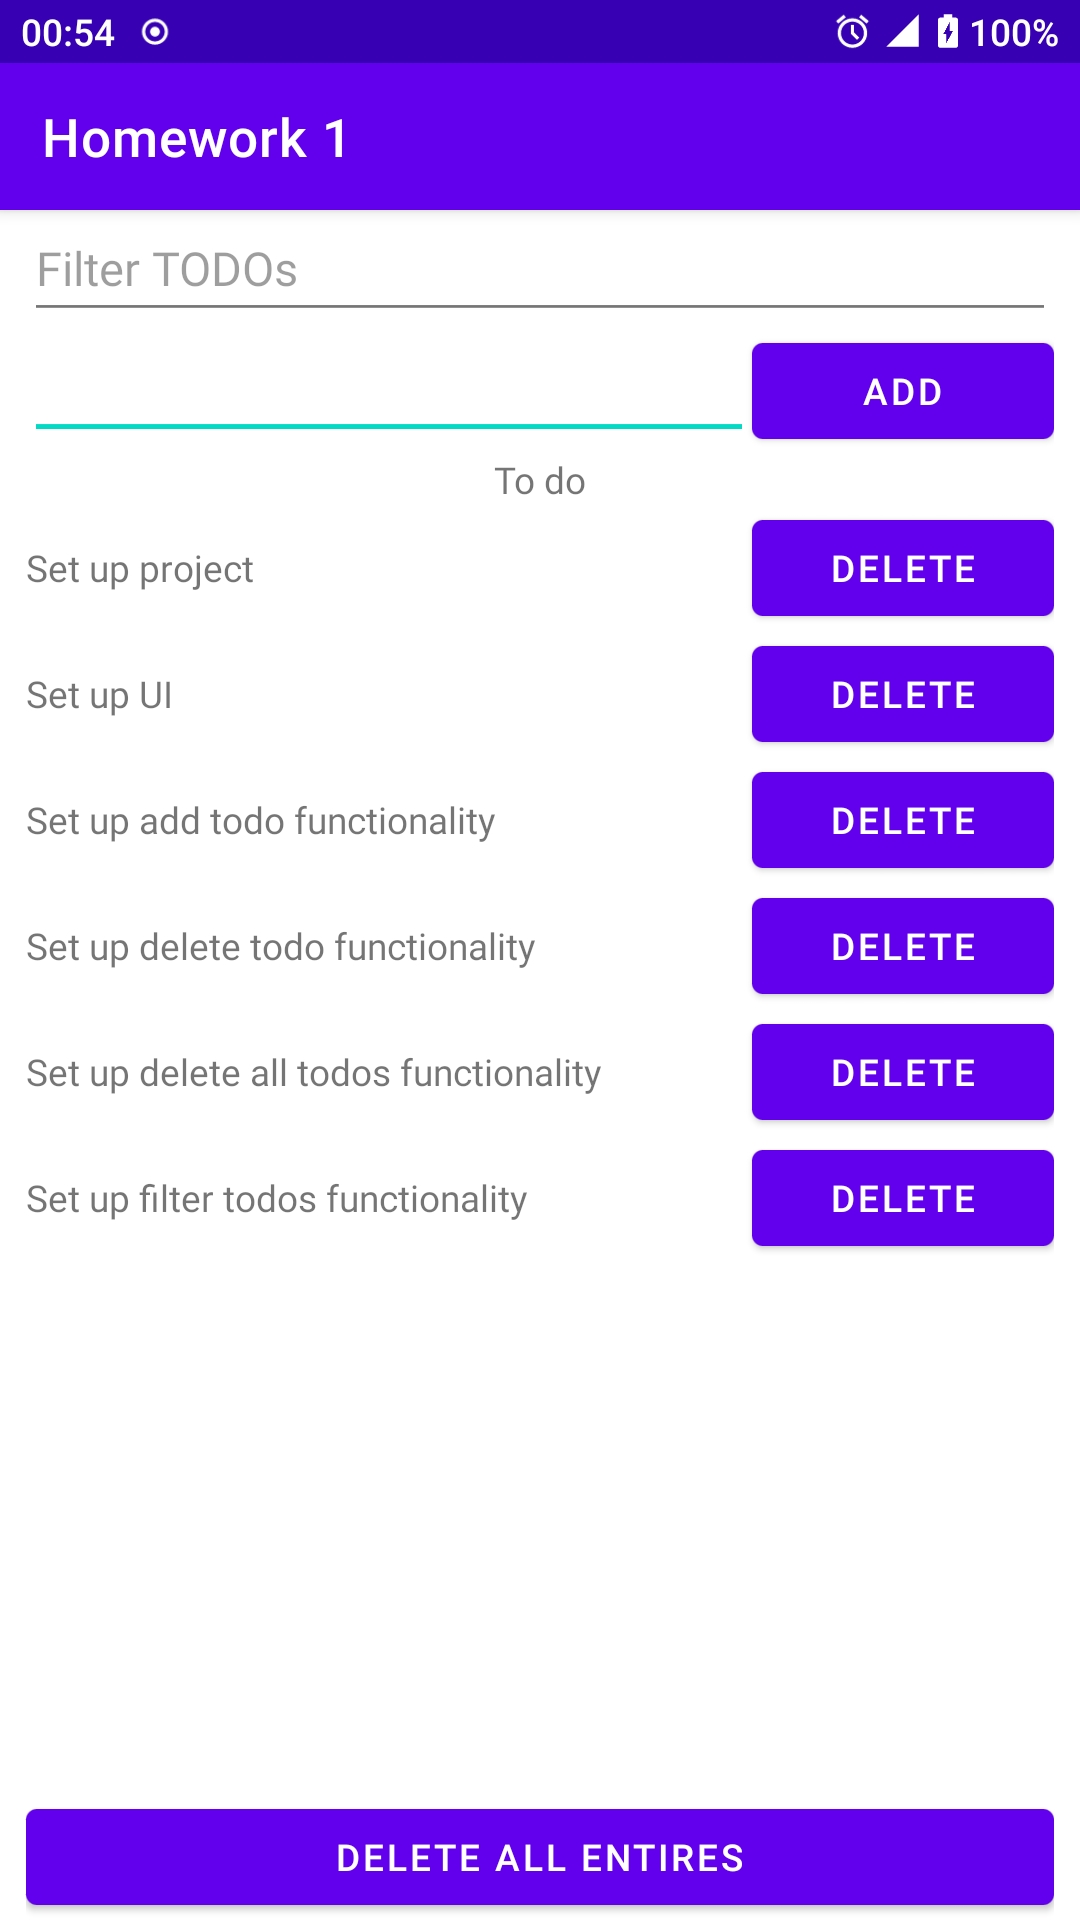
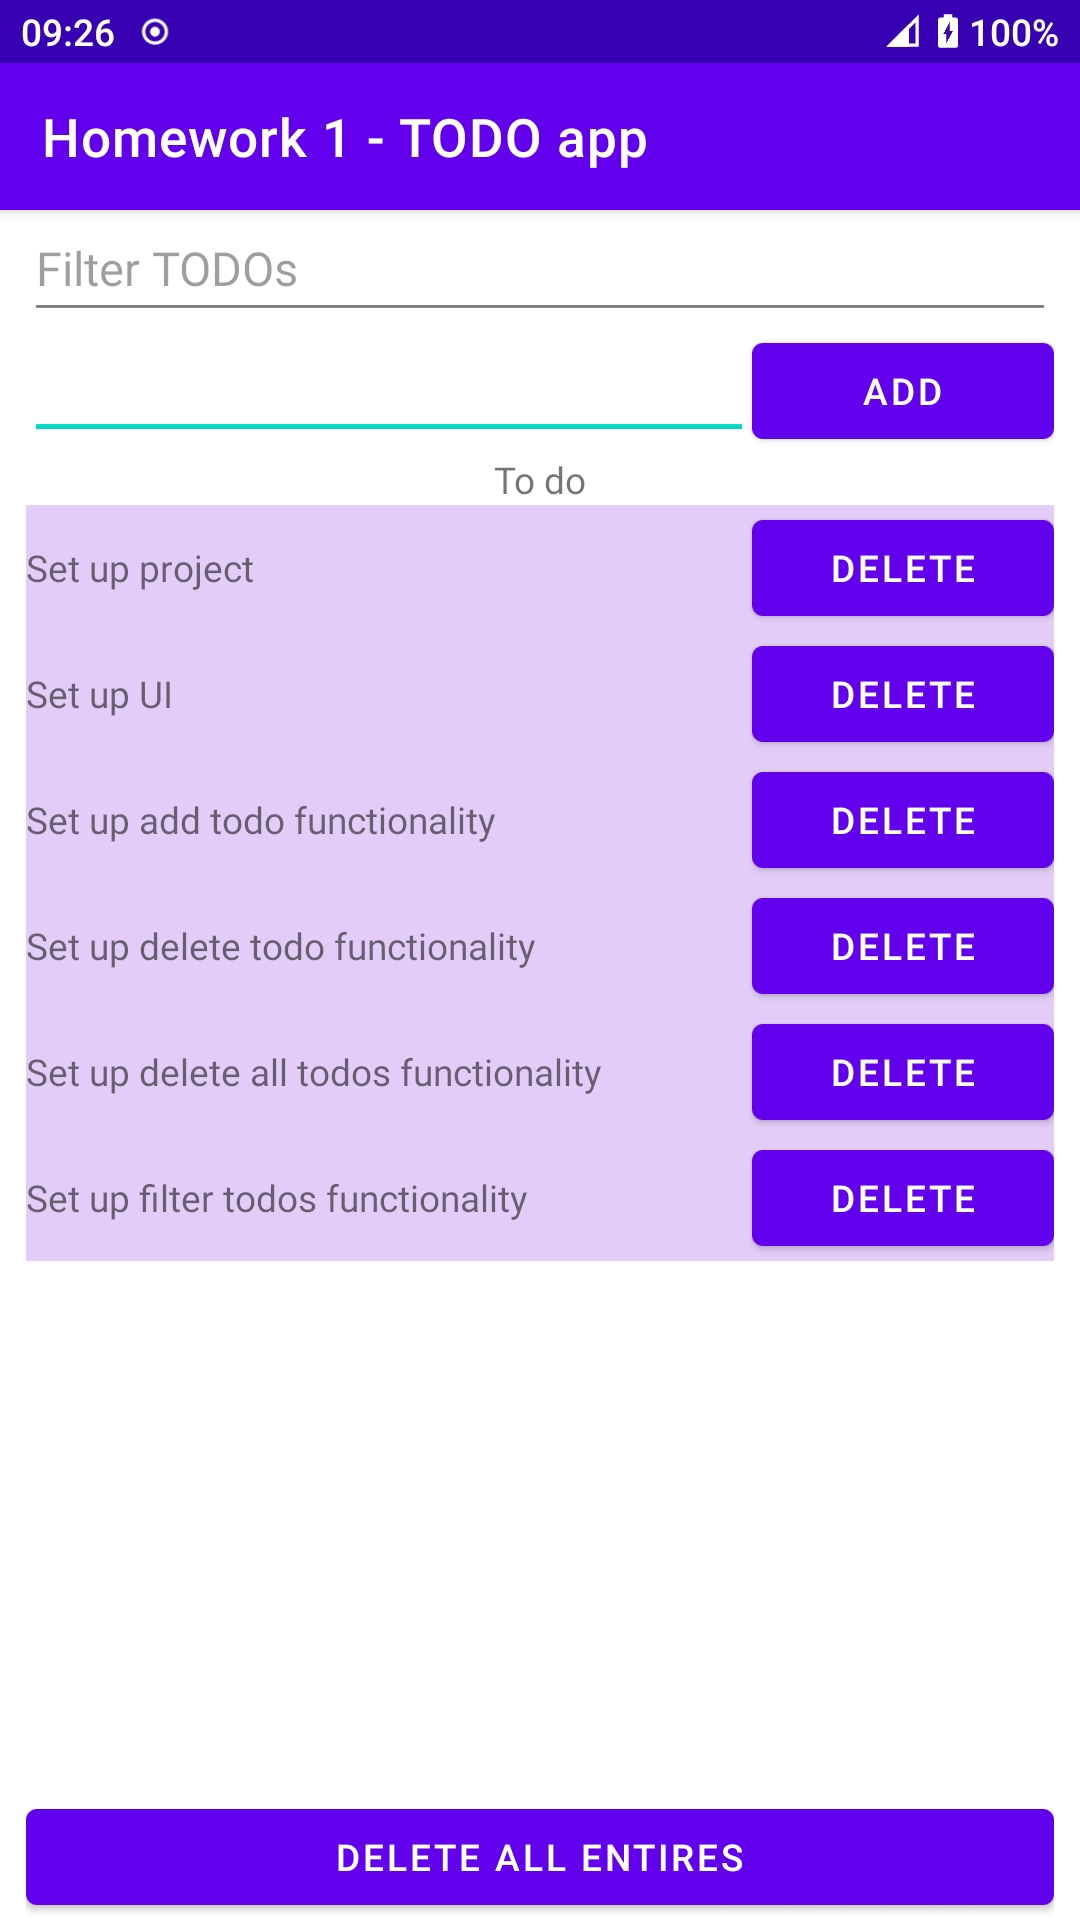
[hm1] Improve UI
* Change title of the activity

* Change background of the scrollView

* Update documentation

diff --git a/app/src/main/java/com/matevskial/pmphomeworks/Homework1.kt b/app/src/main/java/com/matevskial/pmphomeworks/Homework1.kt
@@ -20,7 +20,7 @@ class Homework1 : AppCompatActivity() {
     override fun onCreate(savedInstanceState: Bundle?) {
         super.onCreate(savedInstanceState)
         setContentView(R.layout.activity_homework1)
-        title = "Homework 1"
+        title = "Homework 1 - TODO app"
 
         newTodoEditText = findViewById(R.id.newTodoEditText)
         newTodoButton = findViewById(R.id.newTodoButton)
